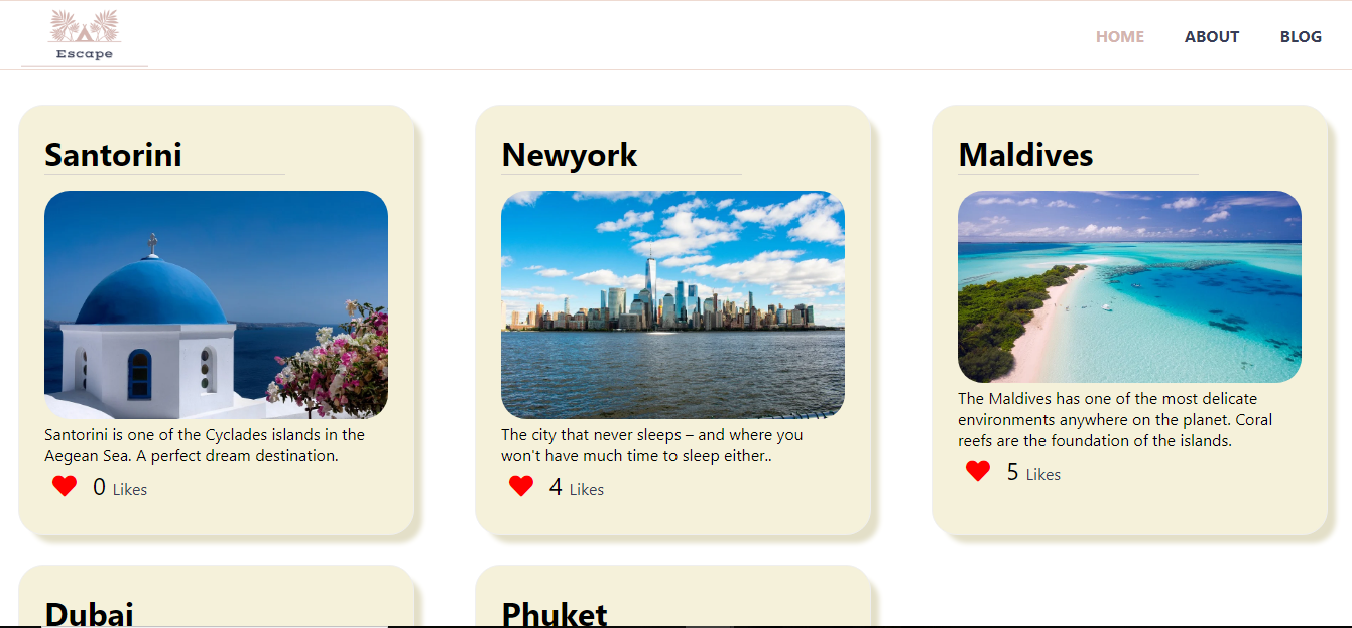
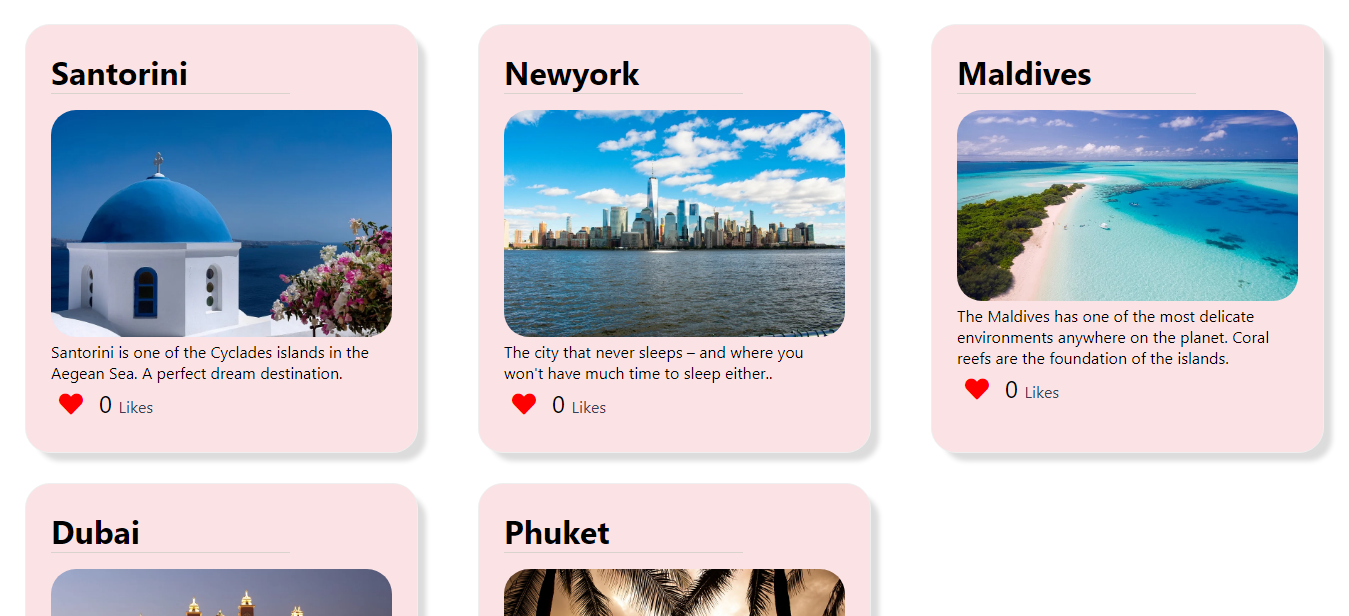
added new image

diff --git a/src/App.css b/src/App.css
@@ -72,8 +72,8 @@
   padding: 25px;
   border: 1px solid #efefef;
   border-radius: 25px;
-  background-color: #f5f1da;
-  box-shadow: 10px 10px 5px -2px #e3dfc8;
+  background-color: #fbe2e5;
+  box-shadow: 10px 10px 5px -2px #DCDCDC;
 }
 .info-display ul {
   list-style: none;
@@ -102,7 +102,7 @@
 } */
 .btn-like{
   color: red;
-  background-color: #f5f1da;
+  background-color: #fbe2e5;
   border: none;
   cursor: pointer;
   outline: none;
